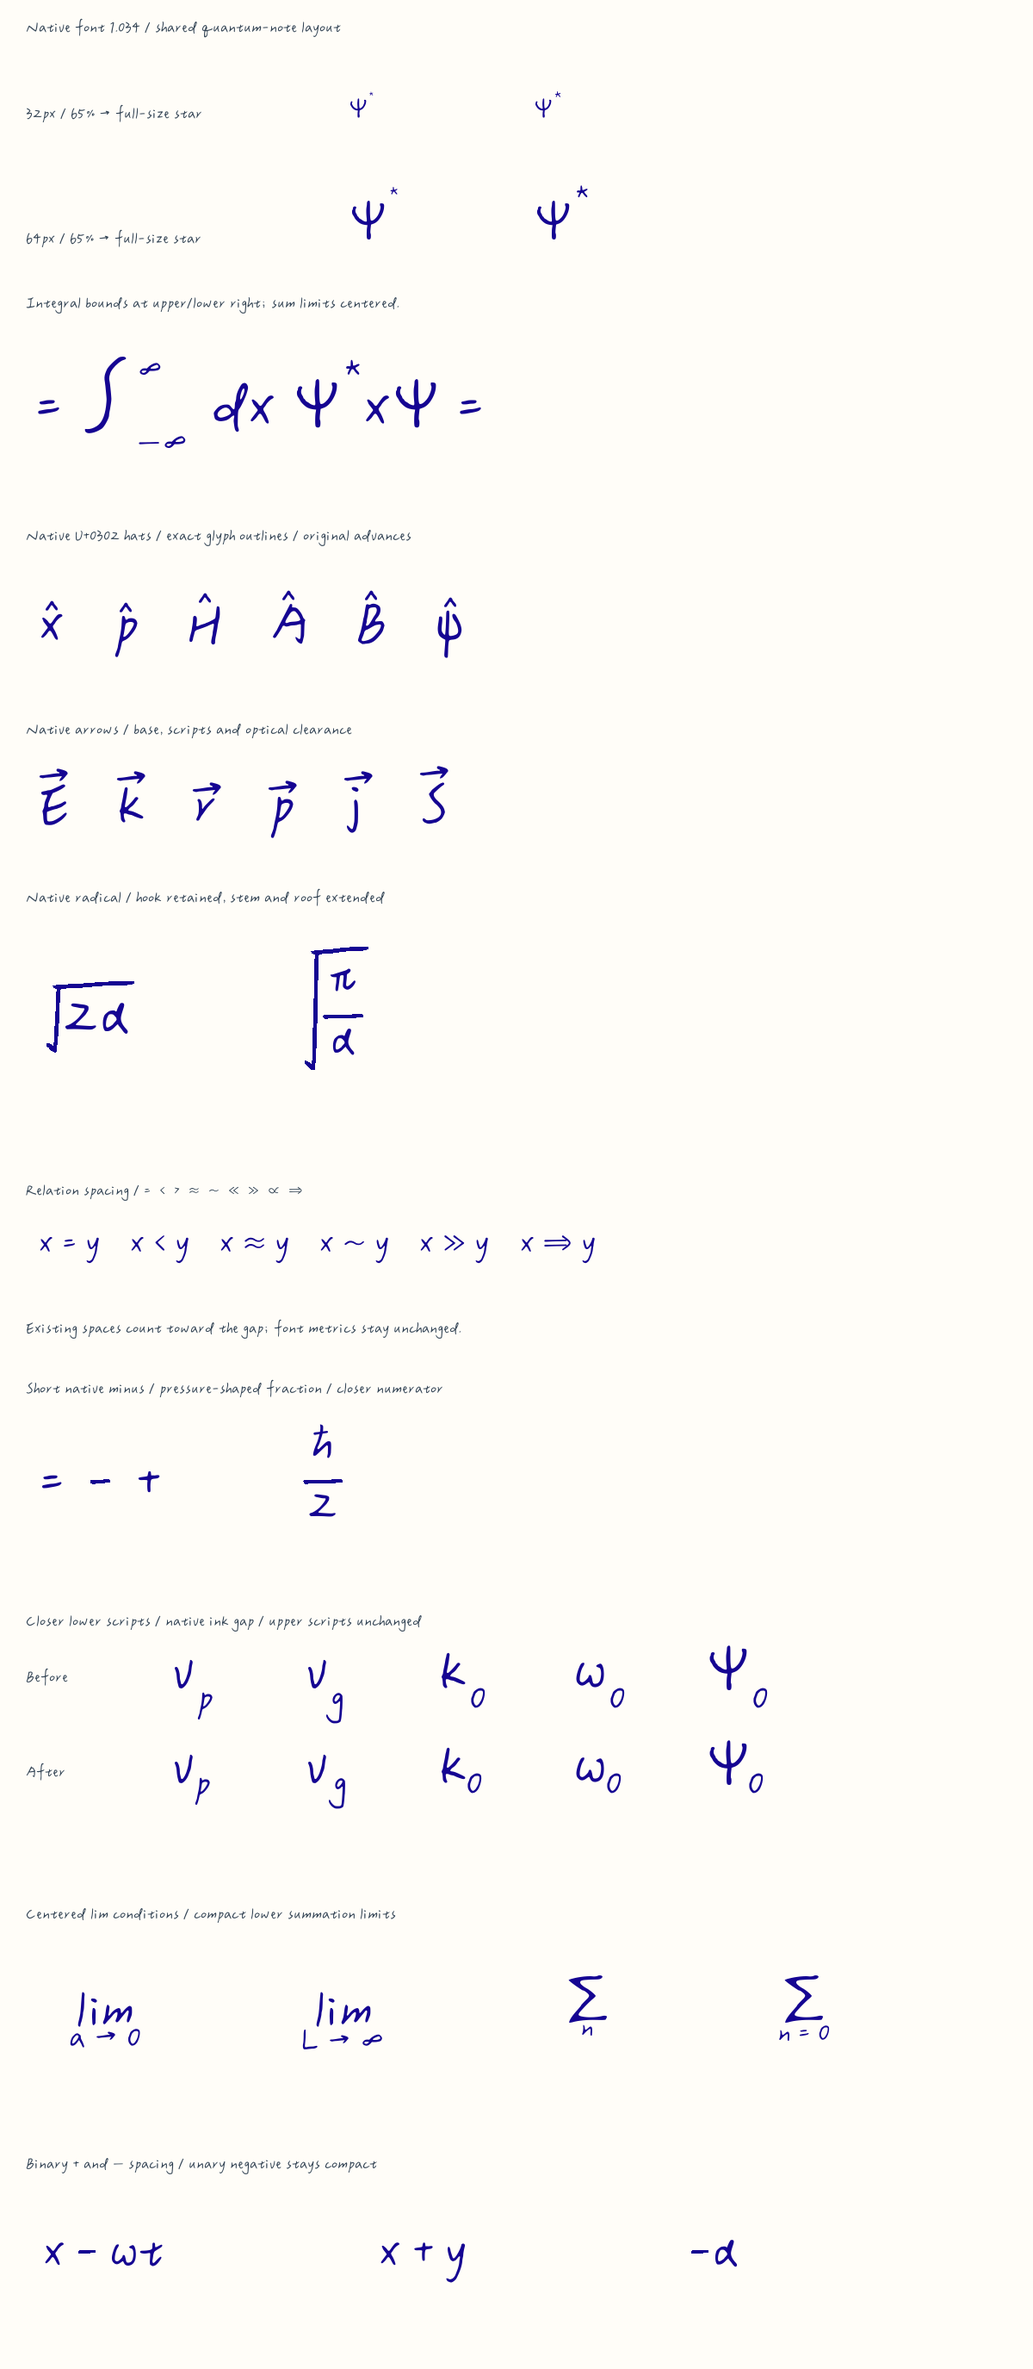
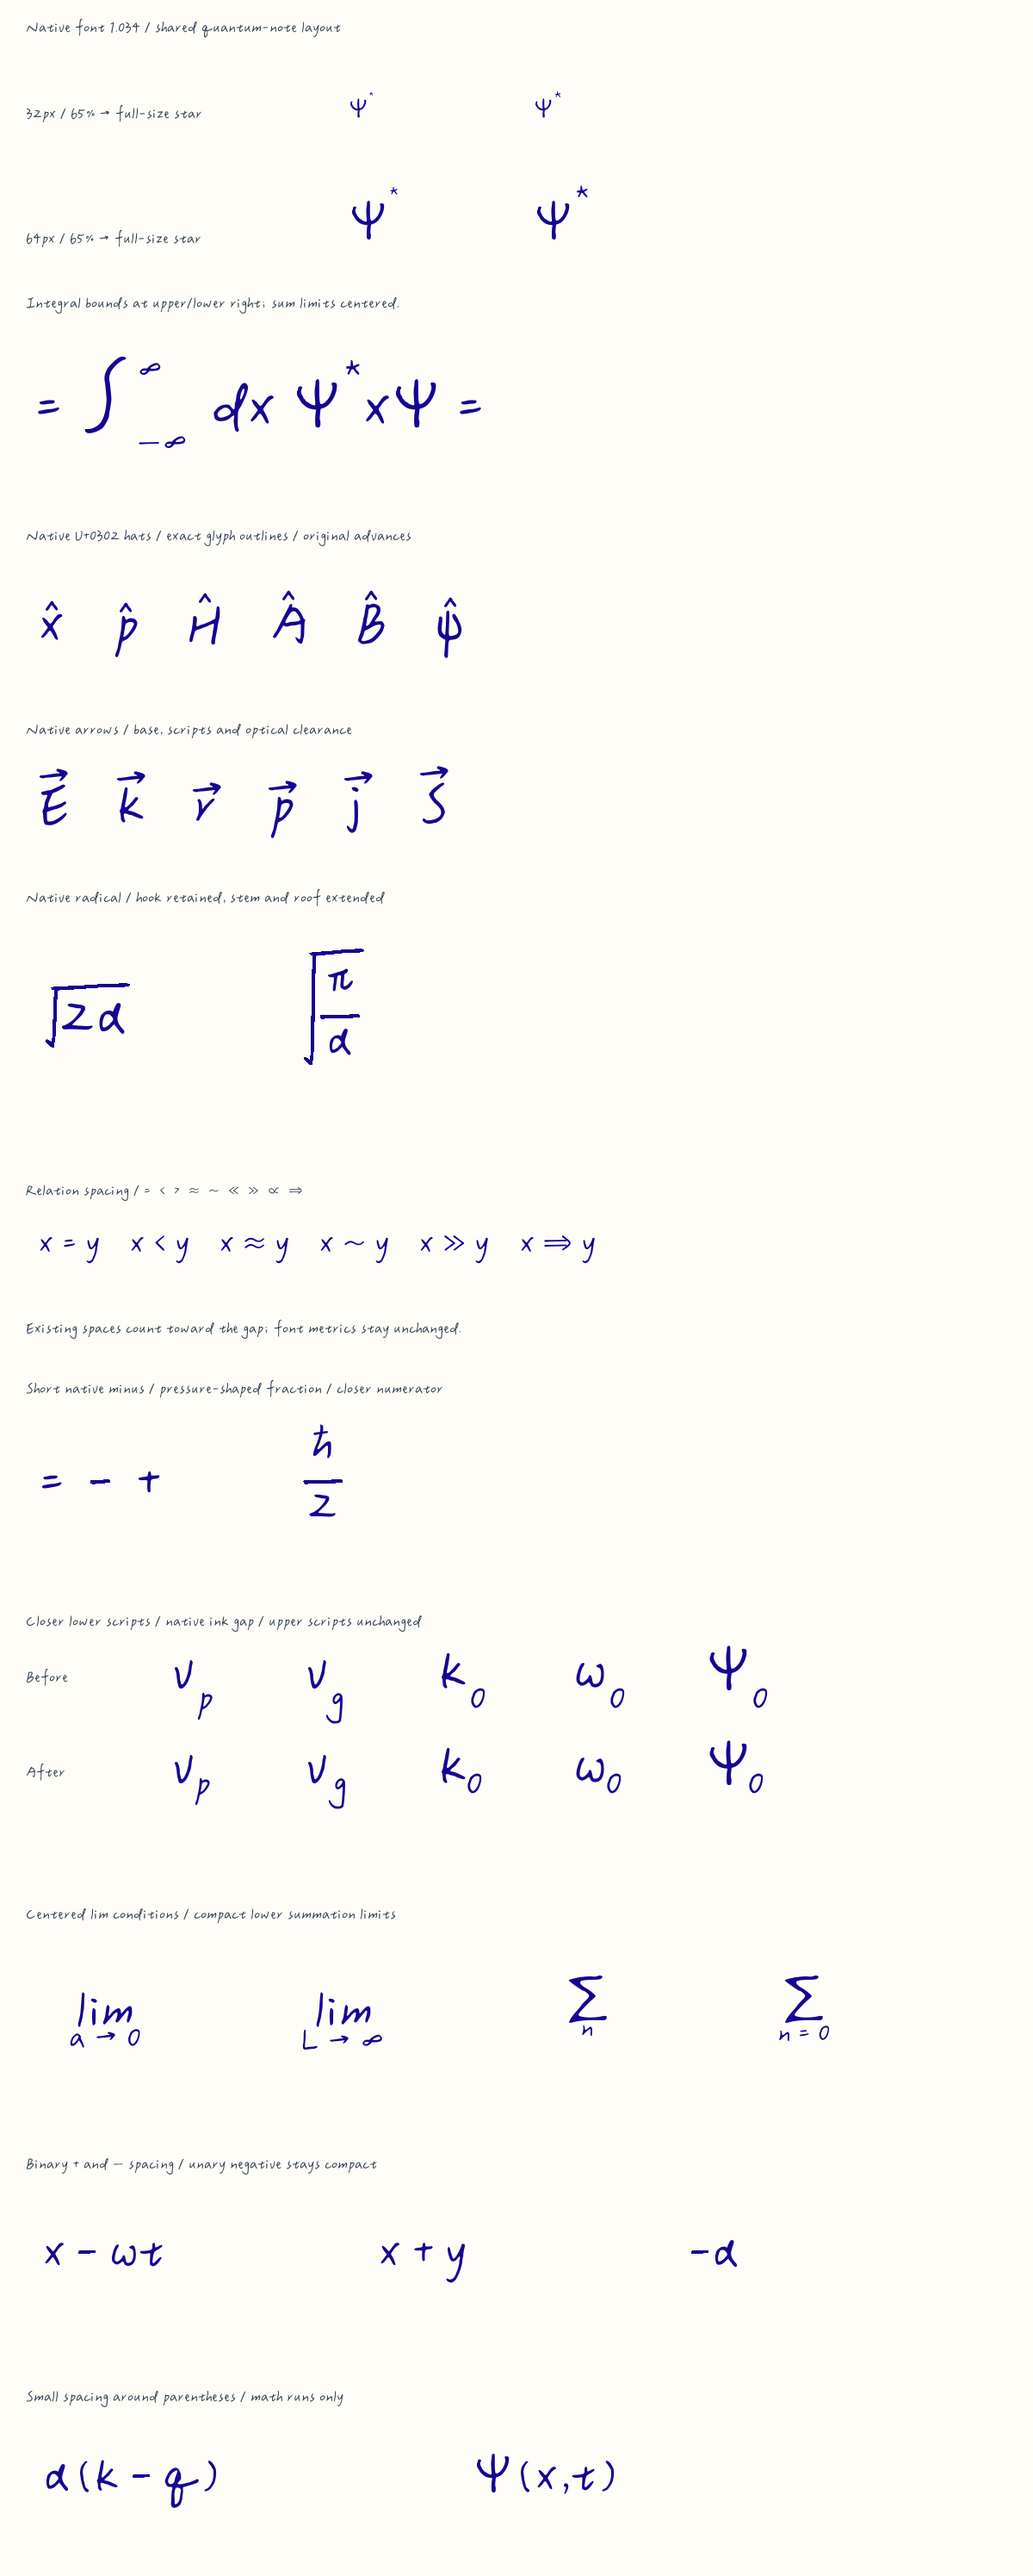
Further compact radicals and add math parenthesis spacing

diff --git a/tools/font/note_math_layout.py b/tools/font/note_math_layout.py
@@ -11,8 +11,10 @@ from fontTools.pens.recordingPen import RecordingPen, replayRecording
 RELATION_CHARACTERS = frozenset('=＝<>＜＞~～≠≡≈≃∼≲≳≤≥≪≫∝∈∉→←↔⇒⇔')
 RELATION_SIDE_EM = .18
 BINARY_SIDE_EM = .14
-RADICAL_SCALE = .90
-RADICAL_BOTTOM_INSET = .08
+PARENTHESIS_CHARACTERS = frozenset('()（）')
+PARENTHESIS_SIDE_EM = .06
+RADICAL_SCALE = .75
+RADICAL_BOTTOM_INSET = .16
 
 CONJUGATE_SCALE = 1.0
 ORDINARY_SCRIPT_SCALE = 0.65
@@ -48,16 +50,20 @@ class NoteMathLayout:
         return advance, ascent, descent
 
     def relation_spacing(self, text, size):
-        """Extra left/right advance per relation, in canvas units.
+        """Extra left/right advance per relation or parenthesis, in canvas units.
 
         Apply only to math text runs, not raw accent glyphs or prose. Existing
-        adjacent spaces count toward the minimum 0.18 math-em clearance, so
+        adjacent spaces count toward the minimum clearance (0.18 math-em for
+        relations, 0.06 for parentheses), so
         already spaced relations are not padded twice. Font metrics are unchanged.
         """
-        gap = RELATION_SIDE_EM * self.units * self.scale(size)
         result = []
         for index, character in enumerate(text):
-            if character not in RELATION_CHARACTERS:
+            if character in PARENTHESIS_CHARACTERS:
+                gap = PARENTHESIS_SIDE_EM * self.units * self.scale(size)
+            elif character in RELATION_CHARACTERS:
+                gap = RELATION_SIDE_EM * self.units * self.scale(size)
+            else:
                 result.append((0, 0))
                 continue
             sides = []
@@ -232,12 +238,12 @@ class NoteMathLayout:
         The split coordinates follow the 1.034 native contour: the hook below
         y=278 and roof above y=449 translate rigidly; only the middle stem grows.
         Roof points right of x=242 extend horizontally without scaling thickness.
-        The contour is drawn at 90% scale with tighter clearance; the full-size
+        The contour is drawn at 75% scale with tighter clearance; the full-size
         radicand and font glyphs remain unchanged.
         """
         width, ascent, descent = radicand
         scale = self.scale(size) * RADICAL_SCALE
-        offset, gap, padding = 280 * scale, 36 * scale, 36 * scale
+        offset, gap, padding = 280 * scale, 24 * scale, 24 * scale
         hook_bottom = descent - min(max(descent, 0), RADICAL_BOTTOM_INSET * size)
         # The outer hook reaches y=252; start stretching above its full contour.
         # A split at y=208 incorrectly lengthened its left tail on tall roots.

diff --git a/tools/font/render_note_math_proof.py b/tools/font/render_note_math_proof.py
@@ -16,7 +16,7 @@ def main():
     with tempfile.TemporaryDirectory() as temp:
         native=MathLayout(FONT,temp)
         layout=NoteMathLayout(native.font)
-        image=Image.new('RGB',(1200,2750),'#fffdf8');draw=ImageDraw.Draw(image)
+        image=Image.new('RGB',(1200,2990),'#fffdf8');draw=ImageDraw.Draw(image)
         label=ImageFont.truetype(str(FONT),25)
         def metrics(text,size):
             return layout.text_metrics(text,size,native.text(text).width*layout.scale(size))
@@ -133,6 +133,19 @@ def main():
             for index,char in enumerate(value):
                 binary=layout.is_binary_sign(char,value[:index],value[index+1:])
                 left,right=layout.binary_spacing(size) if binary else (0,0)
+                x+=left
+                if char=='−':
+                    ox,oy=x,y;x+=45*layout.scale(size);y-=layout.fraction_axis(size)
+                    replayRecording(layout.rule_outline(247*layout.scale(size),size),RasterOutline(None))
+                    x,y=ox+layout.math_advance(char,size),oy
+                else:x+=text(x,y,char,size)
+                x+=right
+        draw.text((30,2770),'Small spacing around parentheses / math runs only',font=label,fill='#345')
+        size=64;y=2900
+        for start,value in ((50,'α(k−q)'),(550,'Ψ(x,t)')):
+            x=start
+            for index,(char,(left,right)) in enumerate(zip(value,layout.relation_spacing(value,size))):
+                if layout.is_binary_sign(char,value[:index],value[index+1:]):left,right=layout.binary_spacing(size)
                 x+=left
                 if char=='−':
                     ox,oy=x,y;x+=45*layout.scale(size);y-=layout.fraction_axis(size)

diff --git a/tools/font/verify_note_math_layout.py b/tools/font/verify_note_math_layout.py
@@ -3,7 +3,7 @@
 from pathlib import Path
 import hashlib
 from fontTools.ttLib import TTFont
-from note_math_layout import NoteMathLayout, CONJUGATE_SCALE, ORDINARY_SCRIPT_SCALE, RELATION_CHARACTERS, RELATION_SIDE_EM, BINARY_SIDE_EM, RADICAL_SCALE, RADICAL_BOTTOM_INSET
+from note_math_layout import NoteMathLayout, CONJUGATE_SCALE, ORDINARY_SCRIPT_SCALE, RELATION_CHARACTERS, RELATION_SIDE_EM, BINARY_SIDE_EM, RADICAL_SCALE, RADICAL_BOTTOM_INSET, PARENTHESIS_CHARACTERS, PARENTHESIS_SIDE_EM
 
 ROOT = Path(__file__).resolve().parents[2]
 FONT = ROOT / 'assets/fonts/quanfangwei-supplement/QuanFangweiSupplementScript-Regular.ttf'
@@ -36,6 +36,11 @@ def verify():
                     assert all(abs(p+count*space_width-max(gap,count*space_width))<1e-9 for p in actual)
             assert all(pair == (0,0) for pair in layout.relation_spacing('x−y+x^2',size))
             assert all(abs(p-gap*.65)<1e-9 for p in layout.relation_spacing('=',size*.65)[0])
+            paren_gap=PARENTHESIS_SIDE_EM*layout.units*layout.scale(size)
+            for paren in PARENTHESIS_CHARACTERS:
+                assert layout.relation_spacing(paren,size)==[(paren_gap,paren_gap)]
+                assert layout.relation_spacing('  '+paren+'  ',size)[2]==(0,0)
+            assert layout.relation_spacing('(x)',size)==[(paren_gap,paren_gap),(0,0),(paren_gap,paren_gap)]
             binary_gap=BINARY_SIDE_EM*layout.units*layout.scale(size)
             assert layout.binary_spacing(size)==(binary_gap,binary_gap)
             assert layout.binary_spacing(size,'x  ','  y')==(0,0)

diff --git a/tools/font/README.md b/tools/font/README.md
@@ -23,7 +23,7 @@ The notebook renderer now handles both explicit `\\hat{…}` nodes and inline U+
 
 For explicit `\vec{…}` nodes, call `vector_geometry(base, base_metrics, size)` and draw the native **→ U+2192** glyph at `(x + dx, baseline + dy)` at `size * ratio`. The 0.85 ratio preserves the native arrow silhouette and scales its head with script size. Clearance above actual base ink is 48 font units; measure with the returned bounds. This renderer adapter does not add the combining vector mark U+20D7 to the font.
 
-For `\sqrt{…}`, call `radical_geometry(radicand_metrics, size)`. Replay its canvas-coordinate outline with a filled pen (no stroke), then draw the radicand at `(x + offset, baseline)`. The native 1.034 radical contour retains its lower hook, while the middle stem extends vertically and the roof extends horizontally to enclose the content. The contour uses a compact 90% drawing scale; roof thickness stays at that scale rather than growing with the content height. Return metrics include the roof, hook and right padding. The contour split coordinates are specific to this pinned font version, not a generic OpenType radical assembly algorithm.
+For `\sqrt{…}`, call `radical_geometry(radicand_metrics, size)`. Replay its canvas-coordinate outline with a filled pen (no stroke), then draw the radicand at `(x + offset, baseline)`. The native 1.034 radical contour retains its lower hook, while the middle stem extends vertically and the roof extends horizontally to enclose the content. The contour uses a compact 75% drawing scale; roof thickness stays at that scale rather than growing with the content height. Return metrics include the roof, hook and right padding. The contour split coordinates are specific to this pinned font version, not a generic OpenType radical assembly algorithm.
 
 The proof includes single-letter arrows, simple radicals and a radical over a fraction; the verifier covers script sizes, tall/wide radicands, ink bounds and unchanged font hashes. Integration additionally checks nested radicals and arrows with subscripts/exponents against the actual PDF renderer.
 
@@ -33,15 +33,17 @@ Call `relation_spacing(text, size)` only for equation text runs. It returns `(le
 
 Keep raw accent glyphs on an unpadded path, especially the U+2192 used above vectors. Ordinary prose and glyph metrics are unchanged. The notes renderer verifies drawing and measurement agree, preserves all 208 formula strings and their font sizes, and keeps six sheets without overflow.
 
+Math parentheses `(`, `)`, `（`, and `）` receive a smaller 0.06 math-em gap on each side through the same spacing API, including at text-run boundaries before/after fractions or scripts. Existing spaces count toward the minimum. Ordinary prose parentheses stay on the unpadded text path. Measurement and drawing apply identical offsets.
+
 ### Native rules and compact radical hook
 
 In equation text, use `math_advance(character, size)` for glyph advances: U+2212 has a renderer-specific 341-unit advance and 247-unit ink length, matching the native plus/equal family. Draw its `rule_outline(247 * scale, size)` at `x + 45 * scale` and `baseline - fraction_axis(size)`. The font cmap, stored glyph outline, and font metrics remain unchanged.
 
 Fractions replay `rule_outline(width, size)` as a **filled contour**, centered on the math axis. Its native terminals, 48-unit thickness and gentle slope are retained; only the middle section changes length. `fraction_metrics` now adds a total 0.20 × size of width padding. Draw the rule inset by 0.04 × size at each end, and put the numerator baseline at `axis_y - numerator_gap(size) - numerator_descent`. The 0.06 × size numerator gap lowers the numerator slightly; the denominator retains its established 3-unit clearance.
 
-The radical's stretch begins at native y=278, above the complete lower hook (which reaches y=252). Earlier y=208 interpolation pulled the left tail upward when a root enclosed a tall fraction. Regression checks retain every lower-hook control point at the same compact 90% scale over multiple radicand heights.
+The radical's stretch begins at native y=278, above the complete lower hook (which reaches y=252). Earlier y=208 interpolation pulled the left tail upward when a root enclosed a tall fraction. Regression checks retain every lower-hook control point at the same compact 75% scale over multiple radicand heights.
 
-The compact radical uses 36 local font units of top/right clearance (previously 48), and raises the hook bottom by up to 0.08 × equation size. Its radicand stays at full size and on the original baseline; the complete expression still measures the full content bounds. This applies to both display equations and inline annotation formulas. No font glyph is edited.
+The compact radical uses 24 local font units of top/right clearance, and raises the hook bottom by up to 0.16 × equation size. Its radicand stays at full size and on the original baseline; the complete expression still measures the full content bounds. This applies to both display equations and inline annotation formulas. No font glyph is edited.
 
 ### Figure label clearance
 
